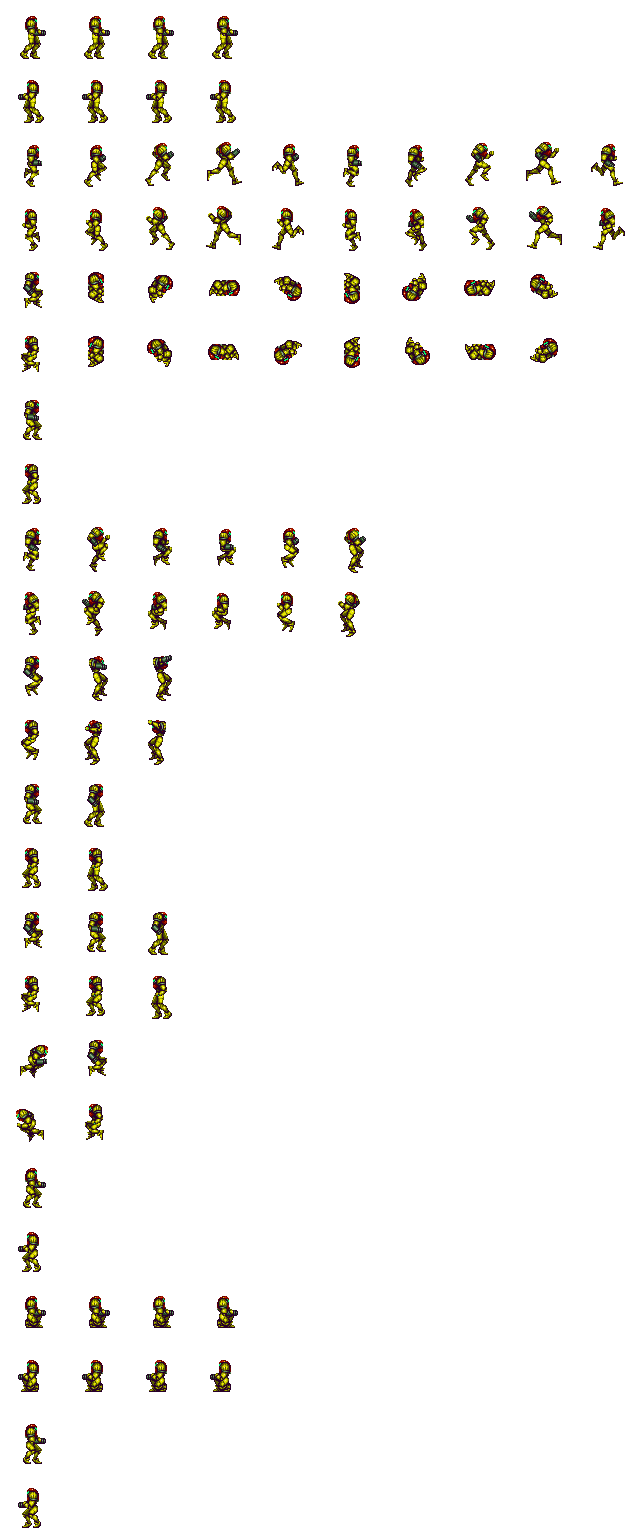
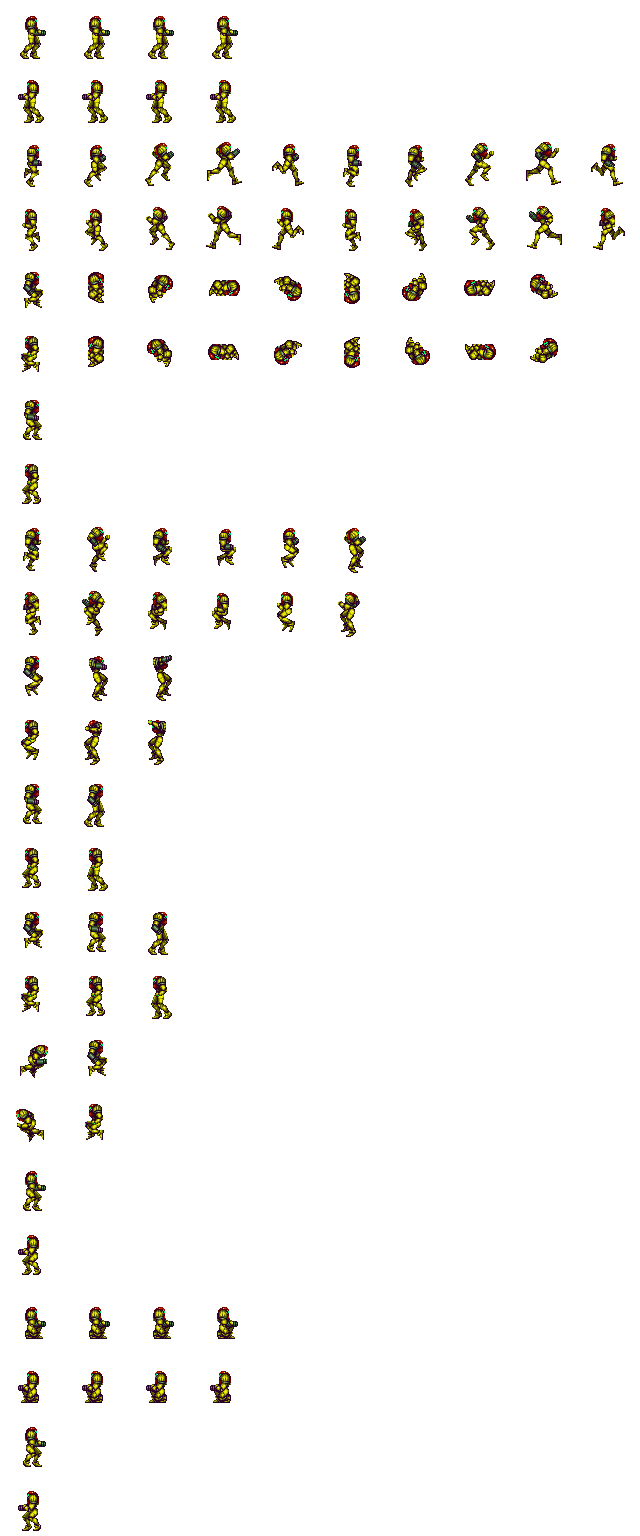
Etapa 3.2.3: alinha os pés da agachada e mantém agachada com um toque
A agachada da prancha original ficava 11 px acima do chão (abaixar e levantar,
3 px), então a Samus flutuava. build_player_sheet.py agora alinha os pés de todas
as poses de chão na linha 58, a mesma do pé em pé.

Um toque para baixo (até 12 ticks) mantém a Samus agachada depois de soltar;
↑, um direcional ou um pulo levantam. Segurar mais que isso levanta ao soltar.

Testes: crouch_tap() em tests/core_test.c; tests/rom_smoke.c confere o toque na ROM.

diff --git a/tests/core_test.c b/tests/core_test.c
@@ -168,7 +168,7 @@ static void states(void) {
     run_states(&b, log, right, 10);
     run_states(&b, log, spin, 1);
     run_states(&b, log, idle, 100);
-    run_states(&b, log, down, 5);
+    run_states(&b, log, down, MM_TAP_TICKS + 1);
     run_states(&b, log, idle, 2);
     run_states(&b, log, jump, 1);
     run_states(&b, log, down_press, 1);
@@ -428,7 +428,7 @@ static void crouch_poses(void) {
     MmBody b;
     char log[256];
     MmRect real = {8, 8, 32, 48};
-    MmInput down = {.aim_y = 1}, right = {.axis = 1}, idle_in = {0};
+    MmInput down = {.aim_y = 1}, up = {.aim_y = -1}, right = {.axis = 1}, idle_in = {0};
     /* The standing box is 48 px tall: y 112 puts its feet on the floor at y 160. */
     reset(); floor_at(20);
     mm_body_init(&b, 80, 112, real);
@@ -441,7 +441,7 @@ static void crouch_poses(void) {
     mm_tick(&world, &b, down);
     assert(b.pose == MM_POSE_CROUCH_DOWN && hold_ticks(&b, down, MM_POSE_CROUCH_DOWN) == MM_CROUCH_DOWN_TICKS);
     assert(b.pose == MM_POSE_CROUCH);
-    mm_tick(&world, &b, idle_in);
+    mm_tick(&world, &b, up);
     assert(b.pose == MM_POSE_STAND_UP && hold_ticks(&b, idle_in, MM_POSE_STAND_UP) == MM_STAND_UP_TICKS);
     mm_body_init(&b, 80, 112, real); mm_tick(&world, &b, idle_in);
     strcpy(log, "GROUND");
@@ -449,6 +449,52 @@ static void crouch_poses(void) {
     run_poses(&b, log, right, 20);
     assert(strcmp(log, "GROUND CROUCH_DOWN CROUCH GROUND") == 0);
     puts("PASS crouch: crouch-down, crouched loop and stand-up hold their frames; walking out ends the stand-up");
+}
+/* A tap of down keeps the crouch after release (up to MM_TAP_TICKS held); one tick more is a hold
+   that stands up on release. Up, a direction or a jump ends a kept crouch, and aiming down with the
+   shot is never a tap. */
+static void crouch_tap(void) {
+    MmBody b;
+    MmRect real = {8, 8, 32, 48};
+    MmInput down_press = {.aim_y = 1, .down_pressed = 1}, down_held = {.aim_y = 1}, idle_in = {0};
+    MmInput up_press = {.aim_y = -1, .up_pressed = 1}, right = {.axis = 1};
+    MmInput jump = {.jump_pressed = 1, .jump_held = 1}, aim_down = {.aim_y = 1, .shoot_held = 1};
+    int t;
+    reset(); floor_at(20);
+    mm_body_init(&b, 80, 112, real); mm_tick(&world, &b, idle_in);
+    mm_tick(&world, &b, down_press);
+    for (t = 1; t < MM_TAP_TICKS; ++t) mm_tick(&world, &b, down_held);
+    mm_tick(&world, &b, idle_in);
+    assert(b.crouching && b.crouch_latch && b.hitbox.top == 24 && b.state == MM_STATE_CROUCH);
+    for (t = 0; t < 60; ++t) { mm_tick(&world, &b, idle_in); assert(b.crouching); }
+    mm_tick(&world, &b, up_press);
+    assert(!b.crouching && !b.crouch_latch && b.state == MM_STATE_STAND);
+
+    mm_body_init(&b, 80, 112, real); mm_tick(&world, &b, idle_in);
+    mm_tick(&world, &b, down_press);
+    for (t = 1; t <= MM_TAP_TICKS; ++t) mm_tick(&world, &b, down_held);
+    mm_tick(&world, &b, idle_in);
+    assert(!b.crouching && !b.crouch_latch && b.state == MM_STATE_STAND);
+
+    mm_body_init(&b, 80, 112, real); mm_tick(&world, &b, idle_in);
+    mm_tick(&world, &b, down_press); mm_tick(&world, &b, idle_in);
+    for (t = 0; t < 20; ++t) mm_tick(&world, &b, idle_in);
+    assert(b.crouching);
+    mm_tick(&world, &b, right);
+    assert(!b.crouching && !b.crouch_latch && b.state == MM_STATE_WALK);
+
+    mm_body_init(&b, 80, 112, real); mm_tick(&world, &b, idle_in);
+    mm_tick(&world, &b, down_press); mm_tick(&world, &b, idle_in);
+    mm_tick(&world, &b, jump);
+    assert(b.jumped && !b.crouch_latch);
+    for (t = 0; t < 100; ++t) mm_tick(&world, &b, idle_in);
+    assert(b.grounded && !b.crouching && b.state == MM_STATE_STAND);
+
+    mm_body_init(&b, 80, 112, real); mm_tick(&world, &b, idle_in);
+    mm_tick(&world, &b, aim_down); mm_tick(&world, &b, aim_down);
+    mm_tick(&world, &b, idle_in);
+    assert(!b.crouching && !b.crouch_latch);
+    puts("PASS crouch tap: a tap keeps the crouch, one tick more is a hold; up, a direction or a jump ends it");
 }
 /* Morph rules. Down morphs in the air, but not while aiming down with the shot. A morphed body
    does not wall jump; it can stand up again in the air where the standing box fits. */
@@ -531,7 +577,7 @@ static void ball_stand_real(void) {
 }
 int main(void) {
     movement(); collisions(); jump_and_ledge(); states(); physics(); variable_jump(); coyote_jump();
-    slopes(); slope_sweep(); tunnels(); wall_climb(); poses(); crouch_poses(); morph_rules(); ball_stands_on_slope();
+    slopes(); slope_sweep(); tunnels(); wall_climb(); poses(); crouch_poses(); crouch_tap(); morph_rules(); ball_stands_on_slope();
     ball_stand_real(); camera_and_input(); real_levels();
     puts("All core regression tests passed."); return 0;
 }

diff --git a/scripts/build_player_sheet.py b/scripts/build_player_sheet.py
@@ -21,6 +21,13 @@ POSES = ROOT / 'res/images/samus-original-sgdk/poses'
 SHEET = ROOT / 'res/images/player/samus_sheet.png'
 HEADER = ROOT / 'inc/player_anim.h'
 CELL = 64
+# The game draws a cell at (x - 12, y - 11), so the feet of a standing Samus land on row 58 of the
+# cell, which is the last row of her hitbox (y + 47). Grounded poses are moved to that row.
+GROUND_ROW = 58
+# Actions whose feet touch the floor. The original art draws the crouch frames 11 px higher in
+# their box than the standing ones (and the crouch-down and stand-up frames 3 px higher), so
+# without this Samus floats while crouched.
+GROUNDED = {'STAND', 'WALK', 'LAND', 'SPIN_LAND', 'CROUCH_DOWN', 'CROUCH', 'STAND_UP'}
 # (action, pose facing right, pose facing left), in row order. To add an action,
 # add its entry here and rebuild; the game then uses PLAYER_ANIM_<action>_R / _L.
 ANIMATIONS = [
@@ -49,6 +56,35 @@ def load_pose(number: str) -> Image.Image:
     return pose
 
 
+def lowest_row(frame: Image.Image) -> int | None:
+    """Last row with a visible pixel (index 0 is transparent), or None for an empty frame."""
+    box = frame.point(lambda p: 255 if p else 0).getbbox()
+    return None if box is None else box[3] - 1
+
+
+def visible_pixels(frame: Image.Image) -> int:
+    data = frame.tobytes()
+    return len(data) - data.count(0)
+
+
+def align_feet(frames: list[Image.Image]) -> list[Image.Image]:
+    """Move a whole pose so its lowest foot row is GROUND_ROW. Every frame moves by the same
+    amount, so a walk cycle keeps its lifted feet above the planted one."""
+    feet = max(row for row in map(lowest_row, frames) if row is not None)
+    shift = GROUND_ROW - feet
+    if not shift:
+        return frames
+    shifted = []
+    for frame in frames:
+        cell = Image.new('P', (CELL, CELL), 0)
+        cell.paste(frame, (0, shift))
+        # A shift that pushes pixels out of the cell would silently cut Samus; refuse it.
+        if visible_pixels(cell) != visible_pixels(frame):
+            raise SystemExit(f'aligning the feet by {shift} px would crop the pose')
+        shifted.append(cell)
+    return shifted
+
+
 def main() -> None:
     rows = []
     palette = None
@@ -60,6 +96,8 @@ def main() -> None:
             elif pose.getpalette()[:48] != palette[:48]:
                 raise SystemExit(f'pose {number} does not use the shared palette')
             frames = [pose.crop((x, 0, x + CELL, CELL)) for x in range(0, pose.width, CELL)]
+            if action in GROUNDED:
+                frames = align_feet(frames)
             rows.append((number, frames))
 
     widest = max(len(frames) for _, frames in rows)

diff --git a/tests/rom_smoke.c b/tests/rom_smoke.c
@@ -6,6 +6,7 @@ int main(bool hardReset)
 {
     static Game g;
     int frame, failed = 0, start, after_right = 0, after_left = 0, jumped = 0, poses_seen = 0;
+    int kept = 0, stood = 0, released = 0;
     /* A standing jump shows its takeoff, rise, fall and landing; a jump from a run spins and lands spinning. */
     const int standing_jump_poses = 1 << MM_POSE_TAKEOFF | 1 << MM_POSE_JUMP_UP |
                                     1 << MM_POSE_FALL | 1 << MM_POSE_LAND;
@@ -17,16 +18,25 @@ int main(bool hardReset)
         while (1) SYS_doVBlankProcess();
     }
     start = g.player.x;
-    for (frame = 0; frame < 480; ++frame) {
+    for (frame = 0; frame < 600; ++frame) {
         MmInput input = {0};
         if (frame >= 60 && frame < 180) input.axis = 1;
         if (frame >= 180 && frame < 300) input.axis = -1;
         if (frame >= 380 && frame < 420) input.axis = 1;
         input.jump_pressed = frame == 330 || frame == 400;
         input.aim_y = frame >= 445 && frame < 460;
+        /* A 3-tick tap of down keeps the crouch; up stands up; a 20-tick hold stands up on release. */
+        if (frame >= 480 && frame < 483) input.aim_y = 1;
+        if (frame == 540) input.aim_y = -1;
+        if (frame >= 560 && frame < 580) input.aim_y = 1;
+        input.down_pressed = frame == 480;
+        input.up_pressed = frame == 540;
         game_update(&g, input);
         if (frame == 179) after_right = g.player.x;
         if (frame == 299) after_left = g.player.x;
+        if (frame == 539) kept = g.player.crouching;
+        if (frame == 559) stood = !g.player.crouching;
+        if (frame == 599) released = !g.player.crouching;
         if (g.player.jumped) jumped = 1;
         poses_seen |= 1 << g.player.pose;
         if (g.camera.y != 1024 || mm_blocked(&g.world, &g.player,
@@ -37,8 +47,9 @@ int main(bool hardReset)
     if ((poses_seen & standing_jump_poses) != standing_jump_poses) failed = 1;
     if ((poses_seen & spin_jump_poses) != spin_jump_poses) failed = 1;
     if ((poses_seen & crouch_poses) != crouch_poses) failed = 1;
-    /* PAL adds one tick in every five game_update calls: 480 calls become 576 ticks. */
-    if (g.frame != 480 + (SYS_isPAL() ? 96 : 0)) failed = 1;
+    if (!kept || !stood || !released) failed = 1;
+    /* PAL adds one tick in every five game_update calls: 600 calls become 720 ticks. */
+    if (g.frame != 600 + (SYS_isPAL() ? 120 : 0)) failed = 1;
     /* Window plane keeps the result on screen; plane A scrolls with the camera. */
     VDP_setWindowVPos(FALSE, 2);
     VDP_setTextPlane(WINDOW);

diff --git a/src/core/world.c b/src/core/world.c
@@ -57,6 +57,7 @@ void mm_body_init(MmBody *b, int x, int y, MmRect hitbox)
     b->spin_jumping = b->shoot_pose_timer = 0;
     b->shoot_frame = 3;
     b->ball = b->crouching = 0;
+    b->down_ticks = b->crouch_latch = 0;
     b->coyote = 0;
     b->wall_lock = b->wall_vx = 0;
     b->state = MM_STATE_STAND;
@@ -216,12 +217,22 @@ void mm_tick(const MmWorld *w, MmBody *b, MmInput input)
         else if (input.aim_y > 0 && !b->grounded) b->shoot_frame = input.axis ? 4 : 4;
         else b->shoot_frame = 3;
     } else if (b->shoot_pose_timer) --b->shoot_pose_timer;
+    /* A tap of down (held up to MM_TAP_TICKS, and never while aiming with the shot) keeps the crouch
+       after release on the ground. A longer hold stands the body up when it is released. */
+    if (input.aim_y > 0) {
+        if (b->down_ticks <= MM_TAP_TICKS) ++b->down_ticks;
+        if (input.shoot_held) b->down_ticks = MM_TAP_TICKS + 1;
+    } else if (b->down_ticks) {
+        b->crouch_latch = b->grounded && !b->ball && b->down_ticks <= MM_TAP_TICKS;
+        b->down_ticks = 0;
+    }
+    if (b->jumped || !b->grounded || direction || input.aim_y < 0) b->crouch_latch = 0;
     /* Down morphs in the air, unless it aims down (down + shoot). Up stands the body up where stand_up finds room. */
     if (input.down_pressed && !b->grounded && !input.shoot_held) b->ball = 1;
     if (input.up_pressed && stand_up(w, b)) b->ball = 0;
-    /* Crouch needs no direction and holds while a standing box would hit a ceiling. */
+    /* Crouch needs no direction for a hold, and holds while a standing box would hit a ceiling. */
     b->crouching = b->grounded && !b->ball &&
-        ((input.aim_y > 0 && !direction) || (b->crouching && !fits(w, b, b->stand_box)));
+        ((input.aim_y > 0 && !direction) || b->crouch_latch || (b->crouching && !fits(w, b, b->stand_box)));
     b->hitbox = b->ball ? ball_box(b->stand_box) :
                 b->crouching ? crouch_box(b->stand_box) : b->stand_box;
     b->vx = b->wall_lock ? b->wall_vx : direction * (MM_SPEED + b->run_extra);

diff --git a/inc/core/world.h b/inc/core/world.h
@@ -21,6 +21,7 @@
 #define MM_SPIN_LAND_TICKS 15 /* A6/A7, landing from a spin jump: three frames. */
 #define MM_CROUCH_DOWN_TICKS 5 /* 35/36, crouching: one frame. */
 #define MM_STAND_UP_TICKS 5 /* 3B/3C, standing up from a crouch: one frame. */
+#define MM_TAP_TICKS 12 /* Down held for up to 12 ticks (0.2 s) is a tap: the crouch stays after release. */
 
 typedef struct { int left, top, right, bottom; } MmRect;
 typedef struct { const unsigned char *tiles; int columns, rows; } MmWorld;
@@ -43,6 +44,8 @@ typedef struct {
     int run_extra, move_direction;
     int spin_jumping, shoot_pose_timer, shoot_frame;
     int ball, crouching; /* Toggled by down/up presses and the d-pad. */
+    int down_ticks; /* Ticks down has been held, capped just past MM_TAP_TICKS. */
+    int crouch_latch; /* Crouch kept after a tap on the ground; a jump, a direction or up ends it. */
     int coyote; /* Ticks left in which a grounded jump is still allowed. */
     int wall_lock, wall_vx; /* Wall kick: ticks left and the fixed speed while locked. */
     MmState state; /* Derived at the end of every mm_tick. */

diff --git a/docs/PLANO.md b/docs/PLANO.md
@@ -119,6 +119,8 @@ Teste: `tests/rom_smoke.c` (`-SmokeTest`, entrada roteirizada) passa com a folha
 
 **3.2.3 Agachar** ✅. Pose de abaixar (`35`/`36`, 5 ticks), agachada em loop (`27`/`28`) e levantar (`3B`/`3C`, 5 ticks, que termina ao começar a andar). O teto que mantém a Samus agachada continua valendo. Tiro agachado segue no quadro parado até a 3.2.5. Teste: `crouch_poses()` em `tests/core_test.c`; `tests/rom_smoke.c` agacha e levanta na ROM, e a captura do BlastEm mostra as três poses.
 
+Correção depois do teste no emulador: a agachada flutuava 11 px (e abaixar/levantar 3 px), porque a prancha original põe essas poses mais altas na caixa. `scripts/build_player_sheet.py` agora alinha os pés de todas as poses de chão na linha 58 (`GROUND_ROW`). Um toque de ↓ mantém a Samus agachada depois de soltar (`MM_TAP_TICKS`, 12 ticks); segurar mais que isso levanta ao soltar. Teste: `crouch_tap()` em `tests/core_test.c` e o trecho de agachar em `tests/rom_smoke.c`.
+
 **3.2.4 Bola.** Transições de entrar e sair; rolamento só em movimento.
 
 **3.2.5 Mira e tiro.** Escolher a pose pela combinação de estado, mira (`aim_y`, direção) e tiro. A mira passa a valer enquanto o botão estiver segurado, não só no tiro, e a pose de tiro mantém o ciclo das pernas ao andar. Uma tabela por pose dá a posição da boca do canhão, e `mm_weapon_tick` passa a usá-la no lugar de `(20, 22)`. Teste: tiro sai do canhão em todas as poses.

diff --git a/docs/SPRITES.md b/docs/SPRITES.md
@@ -78,6 +78,7 @@ O jogo não carrega as poses avulsas. `scripts/build_player_sheet.py` monta `res
 - A lista `ANIMATIONS` do script diz quais poses entram, em ordem: ação, pose para a direita, pose para a esquerda. Para incluir uma pose nova, acrescente uma entrada e rode o script de novo.
 - A esquerda é sempre uma linha própria (`PLAYER_ANIM_<ação>_L` vem logo depois de `_R`). O código soma 1 à linha da direita; não use `SPR_setHFlip`.
 - Linhas podem ter quantidades diferentes de quadros. O `rescomp` descarta as células vazias no fim de cada linha.
+- Os pés das poses de chão (`GROUNDED`: parado, andando, pouso, agachar, abaixar e levantar) ficam todos na linha 58 da célula, a última do retângulo de colisão (`y + 47`). Cada pose anda inteira para isso, sem mudar a posição relativa entre os quadros da mesma pose. Sem isso a agachada da prancha original ficava 11 px acima do chão. As poses do ar não são alinhadas.
 - O `.res` usa tempo 5 por quadro, como a folha antiga. Tempo 0 deixa a animação parada.
 
 ```powershell

diff --git a/README.md b/README.md
@@ -20,6 +20,8 @@ remap do RetroArch descrito em `docs/BUILD.md`.
 Segure cima ao atirar para mirar acima; cima + esquerda/direita mira na diagonal.
 No ar também é possível mirar para baixo. Tocar A dispara; segurar repete.
 Segurar ↓ no chão agacha: a hitbox fica menor e a Samus abaixa (pose de agachada); tiro agachado ainda usa o quadro de pé.
+Um toque rápido de ↓ (até 0,2 s) mantém a Samus agachada depois de soltar. Para levantar, aperte ↑ ou um direcional, ou pule.
+Segurar ↓ por mais tempo levanta ao soltar.
 Apertar ↓ no ar, sem atirar, entra em bola (hitbox de 16 px, sprite de giro enquanto não há pose
 própria); ↑ sai da bola só onde a Samus cabe em pé, então não sai dentro de túnel baixo.
 
